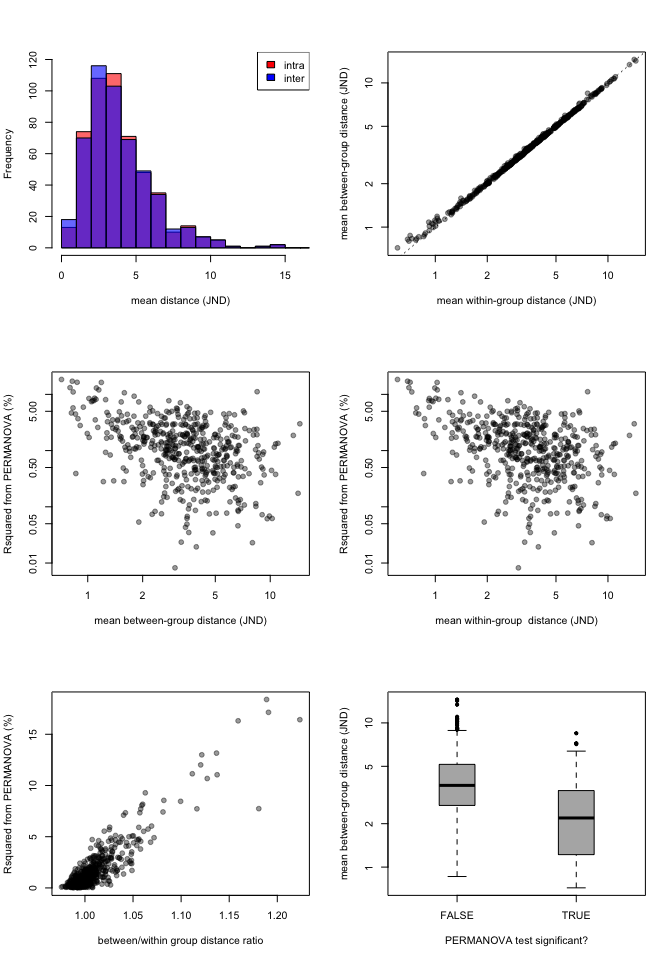
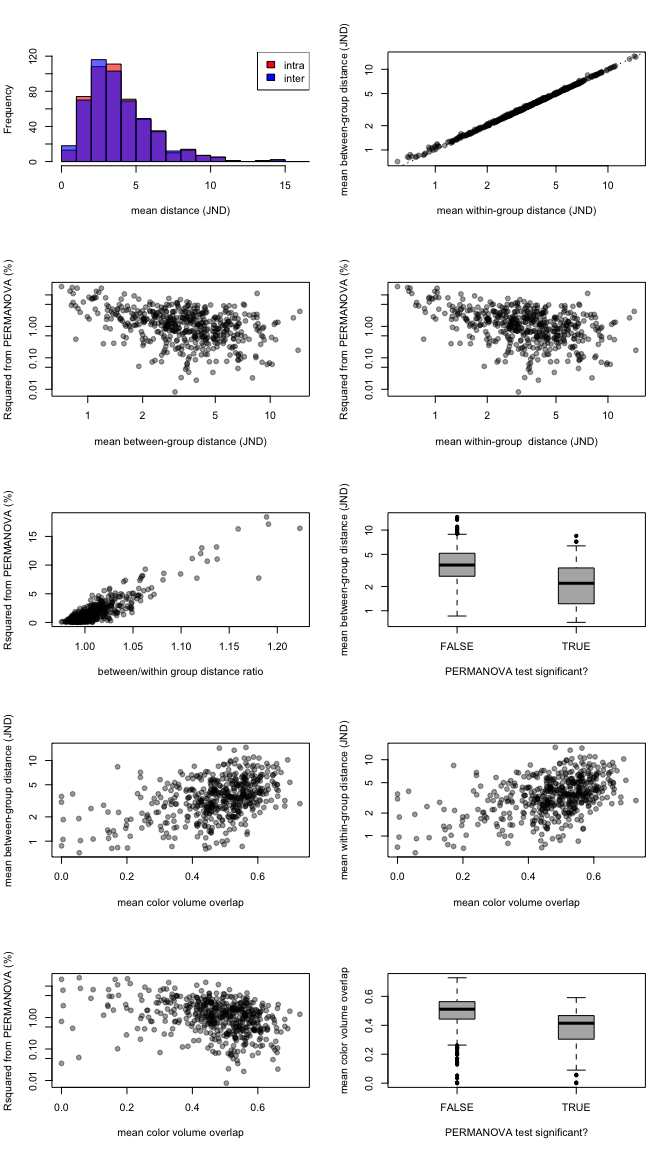
added volume overlap

diff --git a/simspt2.md b/simspt2.md
@@ -9,10 +9,14 @@ However, this isn't statistically appropriate because there are conditions where
 
 This is of course a basic statistical problem that has permeated the literature: when comparing two distributions you need to consider the distance between means *relative to within-group variation*. That's what a t-test is. In the multivariate case where your "unit" of measure is a distance that because harder but there are methods that allow you to test this (e.g. permuational MANOVA).
 
-Here I propose a two-tiered way of testing between color differences between two groups. For two groups to be considered different, you need to answer "yes" to both these questions:
+Here I propose a two-tiered way of testing whether color differences exist between two groups. For two groups to be considered different, you need to answer "yes" to both these questions:
 
 1.  are the two groups distinguisheable in multivariate space? (tested by permutational MANOVA)
 2.  is the difference between these groups above the threshold value? (tested using mixed-models of between-group comparisons and estimating the average effect size and its confidence interval)
+
+### TODO
+
+-   get the centroid for each group, calculate distance between centroids, and between centroids and each point in that group; could be a measure of effect size? How would this relate to JNDs? (JND ratio would be dimensionless).
 
 Simulation definitions
 ----------------------
@@ -78,6 +82,14 @@ adoniscoldist <- function(x){
   
   adonis(dmat~grouping)
   }
+
+voloverlaptest <- function(dat){
+  tcsdat <- suppressWarnings(tcs(dat))
+  gA <- tcsdat[1:(dim(dat)[1]/2),]
+  gB <- tcsdat[(dim(dat)[1]/2+1):(dim(dat)[1]),]
+  
+  voloverlap(gA, gB)
+}
 ```
 
 Simulate 500 datasets
@@ -115,16 +127,22 @@ lmesim <- parallel::mclapply(simulatecoldist, function(x)
   mc.cores=6)
 ```
 
+**Step 3** how does it compare to volume overlap?
+
+``` r
+vovsim <- parallel::mclapply(simulatedata, voloverlaptest, mc.cores=6)
+```
+
 Let's see what our results look like
 
 ![](output/figures/simspt2/simspt2_figunnamed-chunk-3-1.png)
 
 -   There is no association between how well groups can be told apart (PERMANOVA R-squared) and the mean between-group distances
--   There between-group JND distance is not a good predictor of if the groups can be told apart (i.e. if the PERMANOVA is significant)
+-   Between-group JND distance fails to predict if the groups can be told apart (i.e. if the PERMANOVA is significant)
 -   If anything these associations are negative - probably because of the mean-variance relationship in lognormal distributions?
 -   I actually think now that it's because in overall low JNDs, the inter-group variance dominates, but in high JNDs it's essentially just the within-group varince (so lower resolution between-groups).
 
-This is annoying, wasn't really what I was trying to simulate. But makes the point accross...
+This is annoying, wasn't really what I was trying to simulate. But gets the point accross...
 
 Let's try some other simulations.
 
@@ -172,6 +190,12 @@ adonissim.t1 <- parallel::mclapply(simulatecoldist.t1, adoniscoldist, mc.cores=6
 lmesim.t1 <- parallel::mclapply(simulatecoldist.t1, function(x) 
   lmer(dS~comparison - 1 + (1|patch1) + (1|patch2), data=x), 
   mc.cores=6)
+```
+
+**Step 3** how does it compare to volume overlap?
+
+``` r
+vovsim.t1 <- parallel::mclapply(simulatedata.t1, voloverlaptest, mc.cores=6)
 ```
 
 What do the results look like in this case?
@@ -226,11 +250,15 @@ lmesim.t2 <- parallel::mclapply(simulatecoldist.t2, function(x)
   mc.cores=6)
 ```
 
+**Step 3** how does it compare to volume overlap?
+
+``` r
+vovsim.t2 <- parallel::mclapply(simulatedata.t2, voloverlaptest, mc.cores=6)
+```
+
 What do the results look like in this case?
 
 ![](output/figures/simspt2/simspt2_figunnamed-chunk-7-1.png)
-
-What is this sorcery? In this case significant results even have *lower* deltaS! We can see that's because high values of between-group distance also have high values of within-group distance in our simulations.
 
 ``` r
 sessionInfo()
